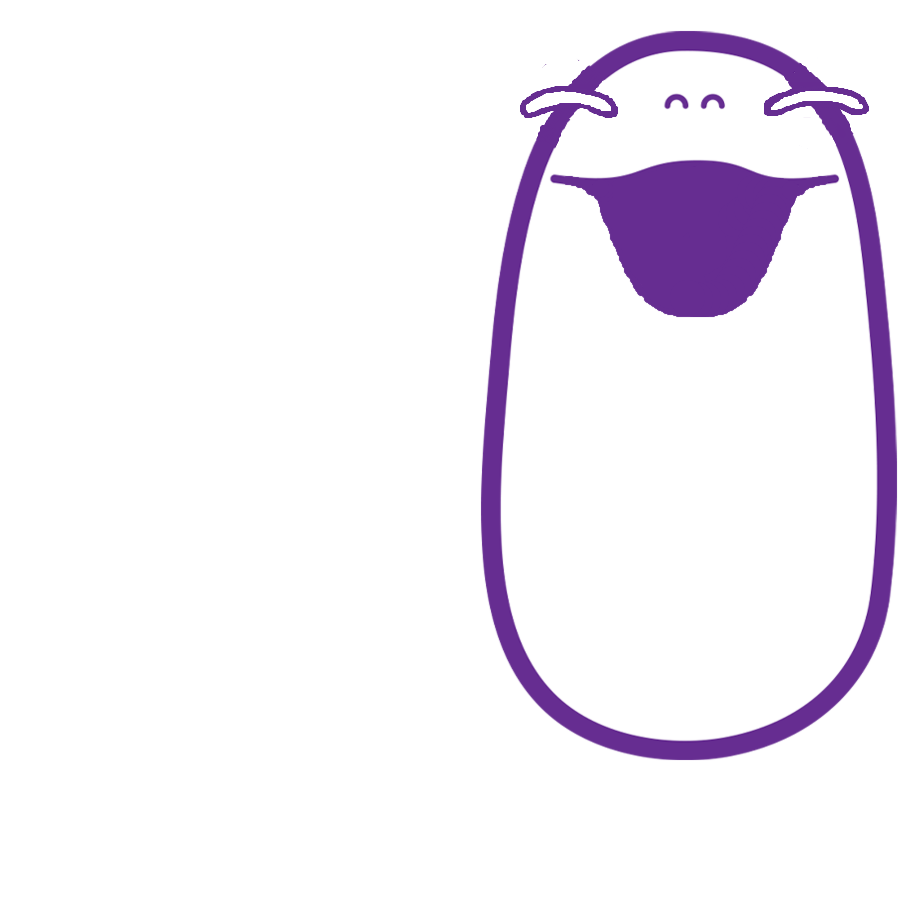
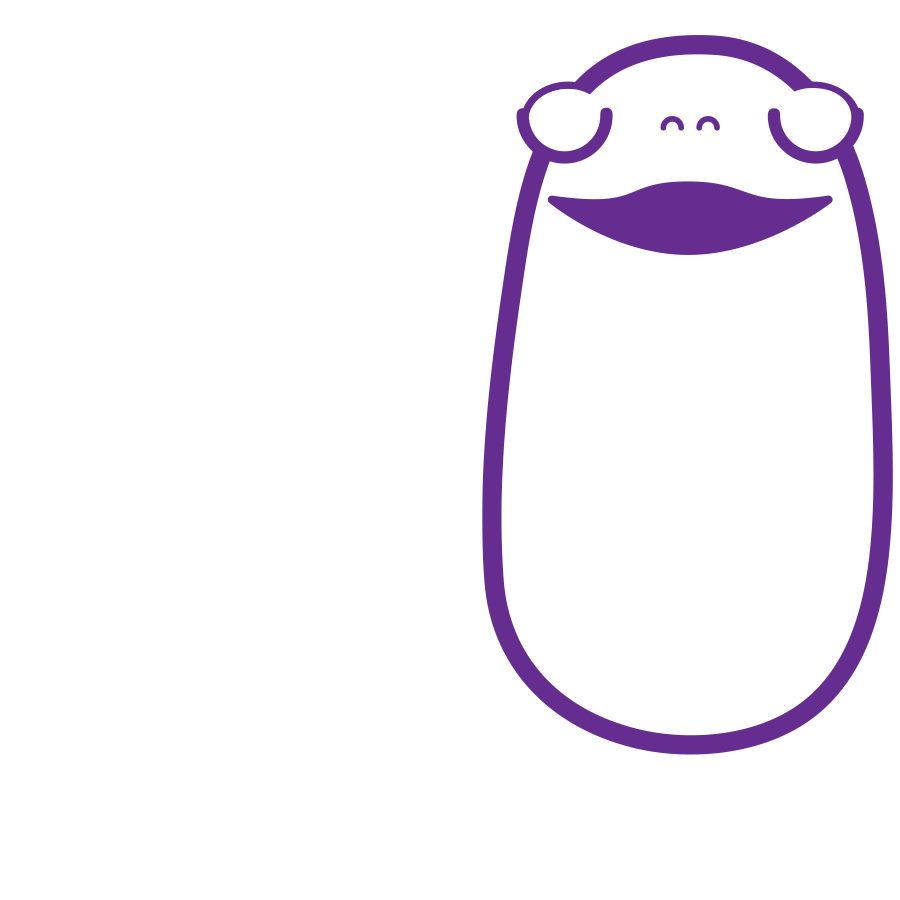
Boop finalized

diff --git a/src/main/java/graphics/Boop.java b/src/main/java/graphics/Boop.java
@@ -36,12 +36,14 @@ public class Boop {
     private Image lfFoot;
     private Image rbFoot;
     private Image rfFoot;
+    private Image leftHideLeg;
+    private Image rightHideLeg;
     private Image shell;
-    private Image shellEmpty;
-    private Image shellLook;
-    private Image shellLook1;
-    private Image shellLook2;
+    private Image shellHide;
     private Image head;
+    private Image headPeek;
+    private Image headPeek1;
+    private Image headPeek2;
     private Image headHappy;
     private Image headHappyBlink;
     private Image headBlink;
@@ -53,12 +55,14 @@ public class Boop {
     private Image lfFootR;
     private Image rbFootR;
     private Image rfFootR;
+    private Image leftHideLegR;
+    private Image rightHideLegR;
     private Image shellR;
-    private Image shellEmptyR;
-    private Image shellLookR;
-    private Image shellLook1R;
-    private Image shellLook2R;
+    private Image shellHideR;
     private Image headR;
+    private Image headPeekR;
+    private Image headPeek1R;
+    private Image headPeek2R;
     private Image headHappyR;
     private Image headHappyBlinkR;
     private Image headBlinkR;
@@ -338,9 +342,9 @@ public class Boop {
                 if(choseRoscoeAnimation) {
                     staticAnimation(sketch, lbFoot, lfFoot, rbFoot, rfFoot, shell, headRoscoe);
                 } else if (choseShake) {
-                    inShellAnimation2(sketch, shellEmpty, shellEmptyR);
+                    inShellAnimation2(sketch, shellHide, shellHideR);
                 } else {
-                    inShellAnimation(sketch, shellEmpty, shellLook, shellLook1, shellLook2);
+                    inShellAnimation(sketch, shellHide, headPeek, headPeek1, headPeek2, leftHideLeg, rightHideLeg);
                 }
                 if (sketch.frameCount >= lastClickedFrame
                         + minimumShellFrames + additionalShellFrames) {
@@ -352,9 +356,9 @@ public class Boop {
                 if(choseRoscoeAnimation) {
                     staticAnimation(sketch, lbFootR, lfFootR, rbFootR, rfFootR, shellR, headRoscoeR);
                 } else if (choseShake) {
-                    inShellAnimation2(sketch, shellEmptyR, shellEmpty);
+                    inShellAnimation2(sketch, shellHideR, shellHide);
                 } else {
-                    inShellAnimation(sketch, shellEmptyR, shellLookR, shellLook1R, shellLook2R);
+                    inShellAnimation(sketch, shellHideR, headPeekR, headPeek1R, headPeek2R, leftHideLegR, rightHideLegR);
                 }
                 if (sketch.frameCount >= lastClickedFrame
                         + minimumShellFrames + additionalShellFrames) {
@@ -589,26 +593,38 @@ public class Boop {
      * Draws Boop amidst his hiding-in-shell animation where he looks around at the end.
      * @param sketch to draw to
      * @param shellEmpty the empty shell to be used
-     * @param shellLook the empty shell with Boop's head popping out to use
-     * @param shellLook1 the empty shell with Boop's head popping out,
+     * @param shellPeek  Boop's head popping out to use
+     * @param shellPeek1 Boop's head popping out,
      *                   looking to one side to use
-     * @param shellLook2 the empty shell with boop's head popping out,
+     * @param shellPeek2 Boop's head popping out,
      *                   looking to the other side to use
+     * @param leftLeg    Boop's left leg to draw
+     * @param rightLeg   Boop's right leg to draw
      */
     private void inShellAnimation(Kiosk sketch, Image shellEmpty,
-                                  Image shellLook, Image shellLook1, Image shellLook2) {
+                                  Image shellPeek, Image shellPeek1, Image shellPeek2, Image leftLeg, Image rightLeg) {
         int frameNumber = (sketch.frameCount - lastClickedFrame)
                 % (minimumShellFrames + additionalShellFrames);
         if (frameNumber == 0) {
-            shellLook2.draw(sketch, currentX, currentY + boopDimens / 10f);
+            leftLeg.draw(sketch, currentX, currentY + boopDimens / 10f);
+            rightLeg.draw(sketch, currentX, currentY + boopDimens / 10f);
+            shellEmpty.draw(sketch, currentX, currentY + boopDimens / 10f);
+            shellPeek2.draw(sketch, currentX, currentY + boopDimens / 10f);
         } else if (frameNumber <= ((minimumShellFrames + additionalShellFrames) / 3f)) {
             shellEmpty.draw(sketch, currentX, currentY + boopDimens / 10f);
         } else if (frameNumber <= ((minimumShellFrames + additionalShellFrames) / 2f)) {
-            shellLook.draw(sketch, currentX, currentY + boopDimens / 10f);
+            shellEmpty.draw(sketch, currentX, currentY + boopDimens / 10f);
+            shellPeek.draw(sketch, currentX, currentY + boopDimens / 10f);
         } else if (frameNumber <= ((minimumShellFrames + additionalShellFrames) / 3f * 2)) {
-            shellLook1.draw(sketch, currentX, currentY + boopDimens / 10f);
+            leftLeg.draw(sketch, currentX, currentY + boopDimens / 10f);
+            rightLeg.draw(sketch, currentX, currentY + boopDimens / 10f);
+            shellEmpty.draw(sketch, currentX, currentY + boopDimens / 10f);
+            shellPeek1.draw(sketch, currentX, currentY + boopDimens / 10f);
         } else {
-            shellLook2.draw(sketch, currentX, currentY + boopDimens / 10f);
+            leftLeg.draw(sketch, currentX, currentY + boopDimens / 10f);
+            rightLeg.draw(sketch, currentX, currentY + boopDimens / 10f);
+            shellEmpty.draw(sketch, currentX, currentY + boopDimens / 10f);
+            shellPeek2.draw(sketch, currentX, currentY + boopDimens / 10f);
         }
     }
 
@@ -680,25 +696,29 @@ public class Boop {
         boopDimens = height / 8;
 
         lbFoot = Image.createImage(sketch,
-                new ImageModel("assets/boop/LeftBackFoot.png", boopDimens, boopDimens));
+                new ImageModel("assets/boop/Left_Back_Foot.png", boopDimens, boopDimens));
         lfFoot = Image.createImage(sketch,
-                new ImageModel("assets/boop/LeftFrontFoot.png", boopDimens, boopDimens));
+                new ImageModel("assets/boop/Left_Front_Foot.png", boopDimens, boopDimens));
         rbFoot = Image.createImage(sketch,
-                new ImageModel("assets/boop/RightBackFoot.png", boopDimens, boopDimens));
+                new ImageModel("assets/boop/Right_Back_Foot.png", boopDimens, boopDimens));
         rfFoot = Image.createImage(sketch,
-                new ImageModel("assets/boop/RightFrontFoot.png", boopDimens, boopDimens));
+                new ImageModel("assets/boop/Right_Front_Foot.png", boopDimens, boopDimens));
+        leftHideLeg = Image.createImage(sketch,
+                new ImageModel("assets/boop/Left_Leg.png", boopDimens, boopDimens));
+        rightHideLeg = Image.createImage(sketch,
+                new ImageModel("assets/boop/Right_Leg.png", boopDimens, boopDimens));
         shell = Image.createImage(sketch,
                 new ImageModel("assets/boop/Shell.png", boopDimens, boopDimens));
-        shellEmpty = Image.createImage(sketch,
-                new ImageModel("assets/boop/Shell_Empty.png", boopDimens, boopDimens));
-        shellLook = Image.createImage(sketch,
-                new ImageModel("assets/boop/Shell_Look.png", boopDimens, boopDimens));
-        shellLook1 = Image.createImage(sketch,
-                new ImageModel("assets/boop/Shell_Look_1.png", boopDimens, boopDimens));
-        shellLook2 = Image.createImage(sketch,
-                new ImageModel("assets/boop/Shell_Look_2.png", boopDimens, boopDimens));
+        shellHide = Image.createImage(sketch,
+                new ImageModel("assets/boop/Shell_Hide.png", boopDimens, boopDimens));
         head = Image.createImage(sketch,
                 new ImageModel("assets/boop/Head.png", boopDimens, boopDimens));
+        headPeek = Image.createImage(sketch,
+                new ImageModel("assets/boop/Peek.png", boopDimens, boopDimens));
+        headPeek1 = Image.createImage(sketch,
+                new ImageModel("assets/boop/Peek_Left.png", boopDimens, boopDimens));
+        headPeek2 = Image.createImage(sketch,
+                new ImageModel("assets/boop/Peek_Right.png", boopDimens, boopDimens));
         headHappy = Image.createImage(sketch,
                 new ImageModel("assets/boop/Head_Happy.png", boopDimens, boopDimens));
         headHappyBlink = Image.createImage(sketch,
@@ -713,25 +733,29 @@ public class Boop {
                 new ImageModel("assets/boop/Head_Roscoe.png", boopDimens, boopDimens));
 
         lbFootR = Image.createImage(sketch,
-                new ImageModel("assets/boop/LeftBackFoot_r.png", boopDimens, boopDimens));
+                new ImageModel("assets/boop/Left_Back_Foot_r.png", boopDimens, boopDimens));
         lfFootR = Image.createImage(sketch,
-                new ImageModel("assets/boop/LeftFrontFoot_r.png", boopDimens, boopDimens));
+                new ImageModel("assets/boop/Left_Front_Foot_r.png", boopDimens, boopDimens));
         rbFootR = Image.createImage(sketch,
-                new ImageModel("assets/boop/RightBackFoot_r.png", boopDimens, boopDimens));
+                new ImageModel("assets/boop/Right_Back_Foot_r.png", boopDimens, boopDimens));
         rfFootR = Image.createImage(sketch,
-                new ImageModel("assets/boop/RightFrontFoot_r.png", boopDimens, boopDimens));
+                new ImageModel("assets/boop/Right_Front_Foot_r.png", boopDimens, boopDimens));
+        leftHideLegR = Image.createImage(sketch,
+                new ImageModel("assets/boop/Left_Leg_r.png", boopDimens, boopDimens));
+        rightHideLegR = Image.createImage(sketch,
+                new ImageModel("assets/boop/Right_Leg_r.png", boopDimens, boopDimens));
         shellR = Image.createImage(sketch,
                 new ImageModel("assets/boop/Shell_r.png", boopDimens, boopDimens));
-        shellEmptyR = Image.createImage(sketch,
-                new ImageModel("assets/boop/Shell_Empty_r.png", boopDimens, boopDimens));
-        shellLookR = Image.createImage(sketch,
-                new ImageModel("assets/boop/Shell_Look_r.png", boopDimens, boopDimens));
-        shellLook1R = Image.createImage(sketch,
-                new ImageModel("assets/boop/Shell_Look_1_r.png", boopDimens, boopDimens));
-        shellLook2R = Image.createImage(sketch,
-                new ImageModel("assets/boop/Shell_Look_2_r.png", boopDimens, boopDimens));
+        shellHideR = Image.createImage(sketch,
+                new ImageModel("assets/boop/Shell_Hide_r.png", boopDimens, boopDimens));
         headR = Image.createImage(sketch,
                 new ImageModel("assets/boop/Head_r.png", boopDimens, boopDimens));
+        headPeekR = Image.createImage(sketch,
+                new ImageModel("assets/boop/Peek_r.png", boopDimens, boopDimens));
+        headPeek1R = Image.createImage(sketch,
+                new ImageModel("assets/boop/Peek_Left_r.png", boopDimens, boopDimens));
+        headPeek2R = Image.createImage(sketch,
+                new ImageModel("assets/boop/Peek_Right_r.png", boopDimens, boopDimens));
         headHappyR = Image.createImage(sketch,
                 new ImageModel("assets/boop/Head_Happy_r.png", boopDimens, boopDimens));
         headHappyBlinkR = Image.createImage(sketch,
